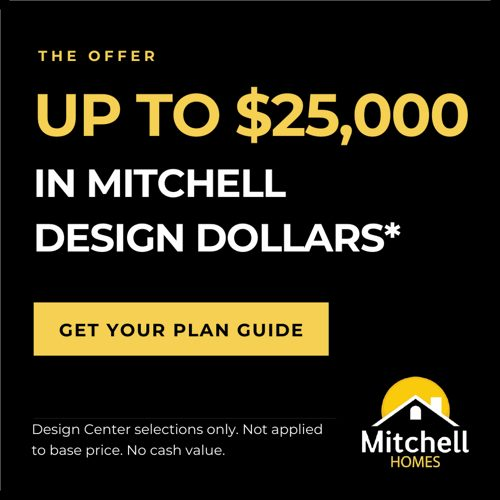
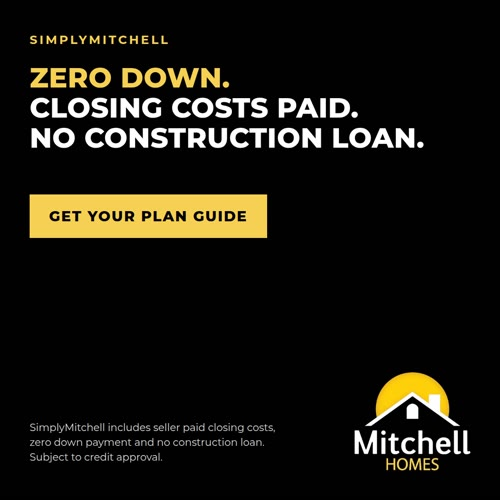
Persona carousels: new card 5 without the incentive
Card 5 of all four persona carousels showed Design Dollars. The new card
carries SimplyMitchell only (zero down, closing costs paid, no
construction loan). It is in the media library, the persona ad kit and
the campaign guide.

Claude-Session: https://claude.ai/code/session_01J13kuoDcWTvqSFzkjH2sKE

diff --git a/campaign-guide/src.html b/campaign-guide/src.html
@@ -345,28 +345,28 @@ dialog::backdrop{background:var(--scrim)}
       <button class="tile" type="button"><img src="%%img:buyers-value-unlocker-2.jpg%%" alt="Card 2: Acreage you own is equity you hold"><span>Card 2</span></button>
       <button class="tile" type="button"><img src="%%img:buyers-value-unlocker-3.jpg%%" alt="Card 3: Your land can be your down payment"><span>Card 3</span></button>
       <button class="tile" type="button"><img src="%%img:buyers-value-unlocker-4.jpg%%" alt="Card 4: No surprise charges in month four"><span>Card 4</span></button>
-      <button class="tile" type="button"><img src="%%img:buyers-value-unlocker-5.jpg%%" alt="Card 5: Up to $25,000 in Mitchell Design Dollars"><span>Card 5</span></button>
+      <button class="tile" type="button"><img src="%%img:buyers-value-unlocker-5.jpg%%" alt="Card 5: Zero down, closing costs paid, no construction loan"><span>Card 5</span></button>
     </div>
     <div class="strip sq" role="tabpanel" id="p-pl" aria-labelledby="t-pl" data-group="pl" hidden>
       <button class="tile" type="button"><img src="%%img:buyers-planner-1.jpg%%" alt="Card 1: A custom home on your land, without the unknowns"><span>Card 1</span></button>
       <button class="tile" type="button"><img src="%%img:buyers-planner-2.jpg%%" alt="Card 2: Start with 40 home plans, not a blank page"><span>Card 2</span></button>
       <button class="tile" type="button"><img src="%%img:buyers-planner-3.jpg%%" alt="Card 3: Every choice priced before we build"><span>Card 3</span></button>
       <button class="tile" type="button"><img src="%%img:buyers-planner-4.jpg%%" alt="Card 4: You hear from us every week"><span>Card 4</span></button>
-      <button class="tile" type="button"><img src="%%img:buyers-planner-5.jpg%%" alt="Card 5: Up to $25,000 in Mitchell Design Dollars"><span>Card 5</span></button>
+      <button class="tile" type="button"><img src="%%img:buyers-planner-5.jpg%%" alt="Card 5: Zero down, closing costs paid, no construction loan"><span>Card 5</span></button>
     </div>
     <div class="strip sq" role="tabpanel" id="p-tr" aria-labelledby="t-tr" data-group="tr" hidden>
       <button class="tile" type="button"><img src="%%img:buyers-transitioner-1.jpg%%" alt="Card 1: No construction loan to build on your land"><span>Card 1</span></button>
       <button class="tile" type="button"><img src="%%img:buyers-transitioner-2.jpg%%" alt="Card 2: Mitchell funds your build, not a bank"><span>Card 2</span></button>
       <button class="tile" type="button"><img src="%%img:buyers-transitioner-3.jpg%%" alt="Card 3: Your land can be your down payment"><span>Card 3</span></button>
       <button class="tile" type="button"><img src="%%img:buyers-transitioner-4.jpg%%" alt="Card 4: A finished home on the land you already own"><span>Card 4</span></button>
-      <button class="tile" type="button"><img src="%%img:buyers-transitioner-5.jpg%%" alt="Card 5: Up to $25,000 in Mitchell Design Dollars"><span>Card 5</span></button>
+      <button class="tile" type="button"><img src="%%img:buyers-transitioner-5.jpg%%" alt="Card 5: Zero down, closing costs paid, no construction loan"><span>Card 5</span></button>
     </div>
     <div class="strip sq" role="tabpanel" id="p-gd" aria-labelledby="t-gd" data-group="gd" hidden>
       <button class="tile" type="button"><img src="%%img:buyers-grounded-dreamer-1.jpg%%" alt="Card 1: Your dream home has a folder, not a date"><span>Card 1</span></button>
       <button class="tile" type="button"><img src="%%img:buyers-grounded-dreamer-2.jpg%%" alt="Card 2: 40 plans and 40,000 ways to make it yours"><span>Card 2</span></button>
       <button class="tile" type="button"><img src="%%img:buyers-grounded-dreamer-3.jpg%%" alt="Card 3: Built on the land you already own"><span>Card 3</span></button>
       <button class="tile" type="button"><img src="%%img:buyers-grounded-dreamer-4.jpg%%" alt="Card 4: It starts with one appointment"><span>Card 4</span></button>
-      <button class="tile" type="button"><img src="%%img:buyers-grounded-dreamer-5.jpg%%" alt="Card 5: Up to $25,000 in Mitchell Design Dollars"><span>Card 5</span></button>
+      <button class="tile" type="button"><img src="%%img:buyers-grounded-dreamer-5.jpg%%" alt="Card 5: Zero down, closing costs paid, no construction loan"><span>Card 5</span></button>
     </div>
   </section>
 

diff --git a/campaigns/ads/persona_kit/index.html b/campaigns/ads/persona_kit/index.html
@@ -59,6 +59,12 @@ button.b:focus-visible,.play:focus-visible,a.b:focus-visible{outline:3px solid v
     <p class="note" style="align-self:flex-start">9:16 vertical, captions burned in, all text inside the Reels safe zone. For Reels, Stories, TikTok and Shorts.</p>
     <div class="grid" id="reels"></div>
   </section>
+  <section style="display:flex;flex-direction:column;gap:14px">
+    <h2>Carousel ads: new card 5</h2>
+    <p class="muted" style="max-width:760px">Each persona carousel keeps cards 1 to 4 as they are. Card 5 used to show the earlier incentive; replace it with this card in all four carousels. It carries SimplyMitchell only, no offer and no date.</p>
+    <div class="card" style="max-width:380px"><img src="carousel/card5.jpg" alt="Card 5: Zero down, closing costs paid, no construction loan" style="border-radius:10px;width:100%">
+      <p class="dest">1080 x 1080 · <a href="https://assets.cdn.filesafe.space/5o5zLlUPPizy6Ajp61oF/media/15e5a7e0-17cf-43ef-b183-5a9192f8cc4a.jpg" target="_blank" rel="noopener">open in the media library</a></p></div>
+  </section>
 </div>
 <script>
 var OFFER = "Zero down, closing costs paid and no construction loan with SimplyMitchell, because Mitchell self-funds every build on land you own or are buying across Virginia, Southern Maryland, North Carolina, and South Carolina. More than 40 floor plans, more than 40,000 selections, and Design Centers across Virginia and North Carolina.\n\nSimplyMitchell includes seller paid closing costs, zero down payment and no construction loan. Financing terms are illustrative only and subject to credit approval. Not a commitment to lend. See a New Home Consultant for details.";
